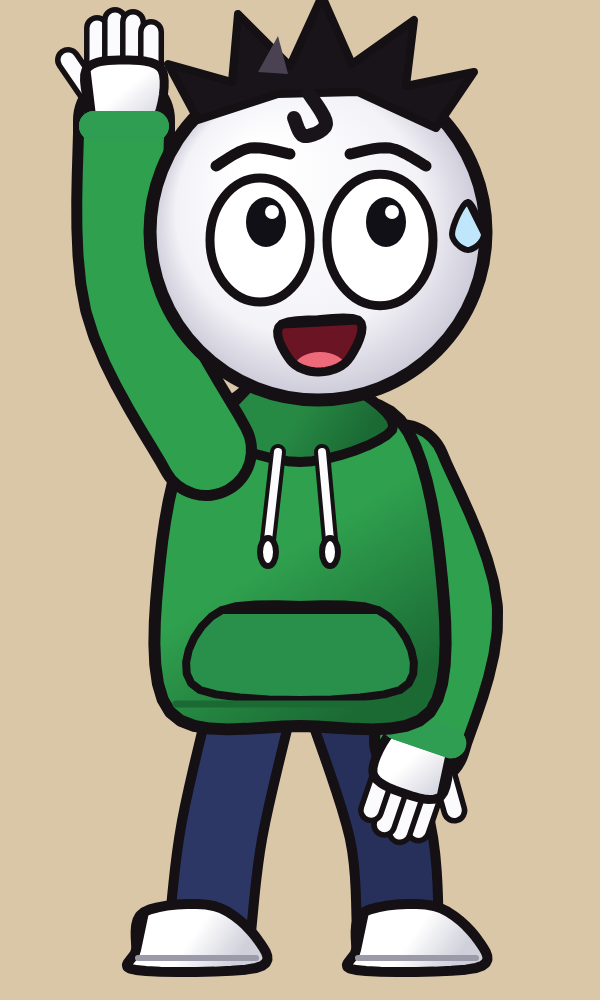
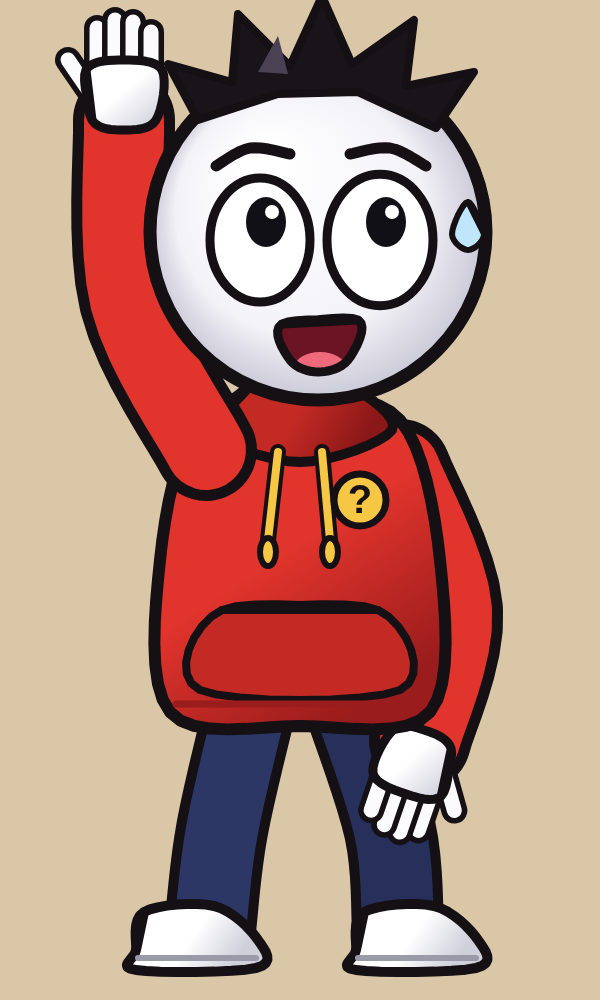
Tuco 2D: red hoodie, yellow strings, ? badge

Changed region(s): [[0.12, 0.093, 0.84, 0.775], [0.48, 0.093, 0.57, 0.155]]

diff --git a/videos/b6-25d-teste/world-cartoon.ts b/videos/b6-25d-teste/world-cartoon.ts
@@ -68,11 +68,11 @@ function tkGlove(g: CanvasRenderingContext2D, x: number, y: number, ang: number,
   for (const [v, L] of [[-27, 58], [-9, 66], [9, 64], [27, 54]]) { tkLine(g, [T(10, v), T(L, v)], 26); tkLine(g, [T(10, v), T(L, v)], 15, '#fbfbfd'); }
   tkLine(g, [T(-6, -34), T(26, -56)], 26); tkLine(g, [T(-6, -34), T(26, -56)], 15, '#fbfbfd');   // thumb
   const palm = [T(-34, -32), T(16, -38), T(26, 0), T(16, 38), T(-34, 32), T(-44, 0)]; tkShape(g, palm, '#ffffff', '#d8d8e2', 9);
-  tkLine(g, [T(-40, -30), T(-40, 30)], 30, '#2f9e52'); tkLine(g, [T(-40, -30), T(-40, 30)], 30, '#2f9e52');   // cuff edge
+     // cuff edge
 }
 function b6Tuco(blink = false) {
   return { key: `tk-tuco-hunch-${blink ? 1 : 0}`, draw: (p: any) => { const g: CanvasRenderingContext2D = p.g;
-    const HOOD = '#2fa04e', HOODS = '#1b6a34';
+    const HOOD = '#e0342c', HOODS = '#9a1c1c';
     // jeans (baggy) + white sneakers
     for (const [s, top, knee, foot] of [[0, [252, 700], [222, 830], [210, 930]], [1, [348, 700], [390, 830], [398, 930]]] as [number, b6_P, b6_P, b6_P][]) {
       tkLine(g, [top, knee, foot], 92); tkLine(g, [top, knee, foot], 72, s ? '#26305a' : '#2c3766');
@@ -84,12 +84,14 @@ function b6Tuco(blink = false) {
     // hoodie body
     const body: b6_P[] = [[200, 420], [300, 400], [400, 420], [440, 560], [430, 712], [300, 726], [170, 712], [160, 560]];
     tkShape(g, body, HOOD, HOODS, 12, [0.6, 0.8]);
-    const pocket: b6_P[] = [[222, 610], [378, 610], [400, 690], [200, 690]]; tkPath(g, pocket); g.fillStyle = '#28904a'; g.fill(); g.lineWidth = 8; g.strokeStyle = TK; g.stroke();
-    tkLine(g, [[176, 704], [424, 704]], 7, '#1b6a34');
+    const pocket: b6_P[] = [[222, 610], [378, 610], [400, 690], [200, 690]]; tkPath(g, pocket); g.fillStyle = '#c42a24'; g.fill(); g.lineWidth = 8; g.strokeStyle = TK; g.stroke();
+    tkLine(g, [[176, 704], [424, 704]], 7, '#9a1c1c');
     // hood behind the neck
-    const hood: b6_P[] = [[208, 430], [250, 386], [300, 380], [350, 386], [392, 430], [300, 462]]; tkShape(g, hood, '#278a44', '#1b6a34', 10);
+    const hood: b6_P[] = [[208, 430], [250, 386], [300, 380], [350, 386], [392, 430], [300, 462]]; tkShape(g, hood, '#c42a24', '#8a1818', 10);
     // white strings with tips
-    for (const [x0, x1] of [[278, 268], [322, 330]]) { tkLine(g, [[x0, 452], [x1, 540]], 16); tkLine(g, [[x0, 452], [x1, 540]], 8, '#fbfbfd'); g.fillStyle = '#ffffff'; g.strokeStyle = TK; g.lineWidth = 6; g.beginPath(); g.ellipse(x1, 552, 8, 14, 0, 0, 7); g.fill(); g.stroke(); }
+    for (const [x0, x1] of [[278, 268], [322, 330]]) { tkLine(g, [[x0, 452], [x1, 540]], 16); tkLine(g, [[x0, 452], [x1, 540]], 8, '#f6c744'); g.fillStyle = '#f6c744'; g.strokeStyle = TK; g.lineWidth = 6; g.beginPath(); g.ellipse(x1, 552, 8, 14, 0, 0, 7); g.fill(); g.stroke(); }
+    g.beginPath(); g.arc(360, 500, 26, 0, 7); g.fillStyle = '#f6c744'; g.fill(); g.lineWidth = 7; g.strokeStyle = TK; g.stroke();
+    g.fillStyle = TK; g.font = 'bold 40px sans-serif'; g.textAlign = 'center'; g.textBaseline = 'middle'; g.fillText('?', 360, 502);
     // arm pushing the ceiling
     tkSleeve(g, [206, 450], [130, 300], [124, 120], 40, HOOD); tkGlove(g, 124, 86, -1.57, 1.0);
     // head: white sphere, soft grey shade bottom-right, thick outline
